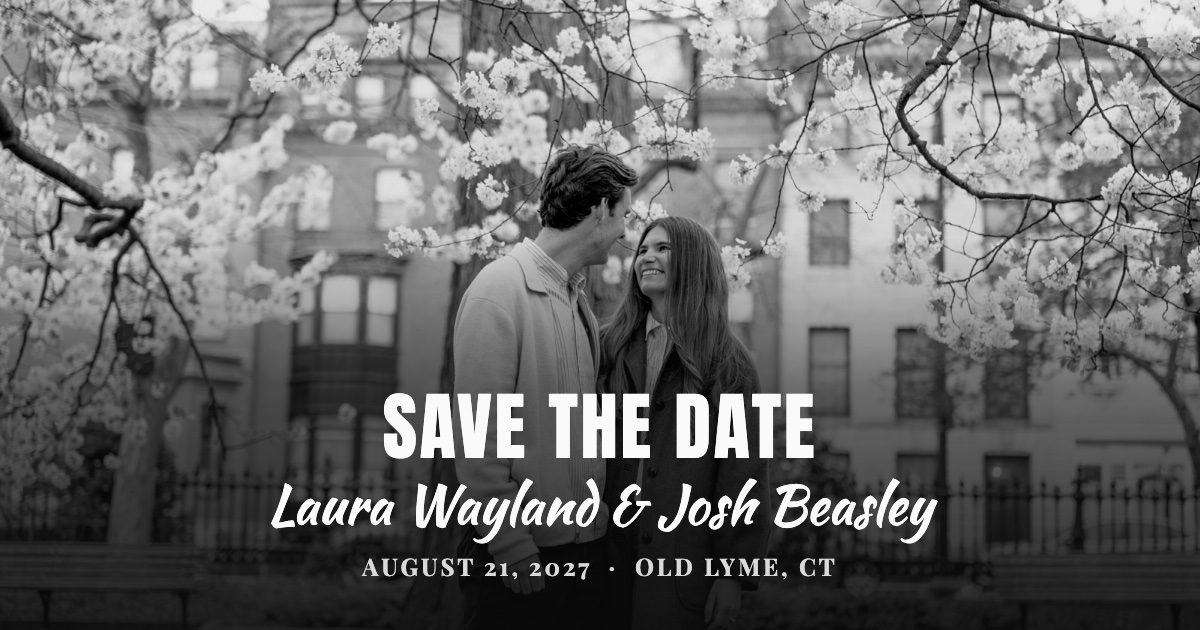
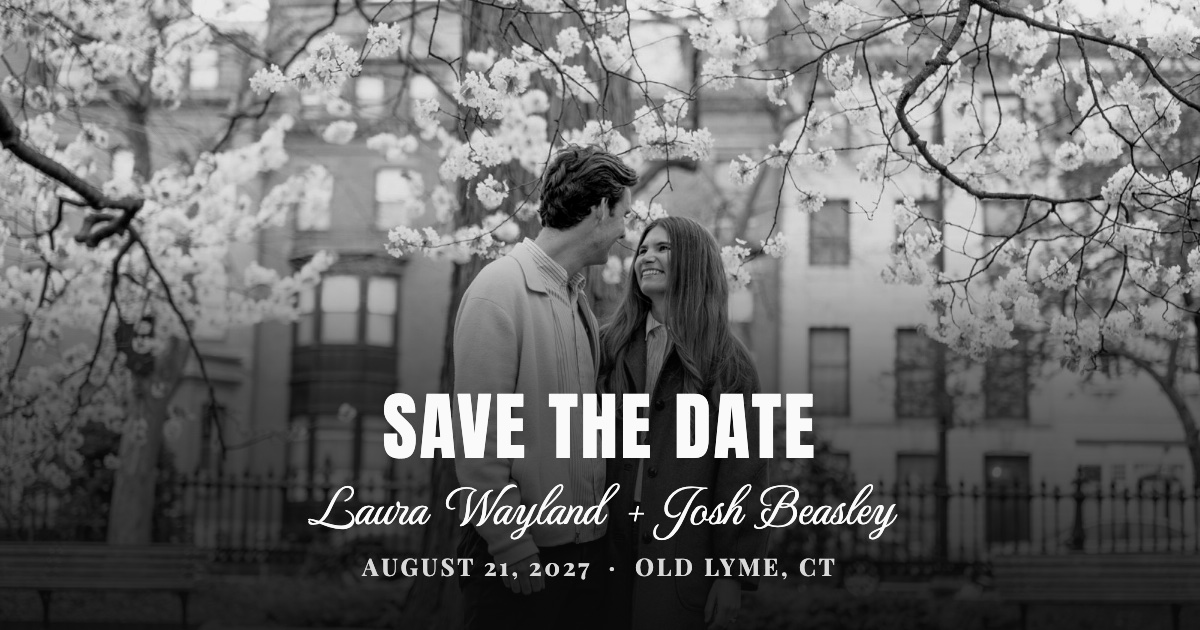
laura edits

Changed region(s): [[0.2158, 0.754, 0.8017, 0.8746]]

diff --git a/styles.css b/styles.css
@@ -19,11 +19,11 @@
 }
 
 @font-face {
-  font-family: 'Kaushan Script';
+  font-family: 'MonteCarlo';
   font-style: normal;
   font-weight: 400;
   font-display: swap;
-  src: url('assets/fonts/kaushan-script-latin.woff2') format('woff2');
+  src: url('assets/fonts/montecarlo-latin.woff2') format('woff2');
 }
 
 @font-face {
@@ -198,17 +198,29 @@ body {
 .strip-paper {
   position: absolute;
   inset: 0;
+  /* The shadow lives here and the paper + cut shape on ::before, so the
+     shadow traces the ribbon's outline (a clip-path on the same element
+     would clip its own shadow away). That outline is what keeps the
+     upper tail visible where it overlaps the same-colored photo frame. */
+  filter: drop-shadow(0 2px 4px rgba(17, 17, 15, 0.12));
+}
+
+.strip-paper::before {
+  content: '';
+  position: absolute;
+  inset: 0;
   background: var(--paper-light);
   background-image: url('assets/paper-grain.svg');
   background-size: 140px 140px;
   background-blend-mode: multiply;
-  filter: drop-shadow(0 2px 4px rgba(17, 17, 15, 0.12));
+  /* Swallowtail ribbon end: two points with a V notch cut between
+     them. The extra vertices at each tip bevel it slightly so the
+     points read as cut ribbon rather than razor-sharp. */
   clip-path: polygon(
     100% 0%,
-    7% 0%, 3% 4%, 9% 7%, 4% 11%, 10% 15%,
-    5% 20%, 11% 25%, 6% 31%, 12% 37%, 7% 43%,
-    13% 49%, 8% 56%, 12% 62%, 7% 68%, 13% 74%,
-    8% 80%, 11% 85%, 5% 90%, 10% 95%, 4% 100%,
+    1.5% 0%, 0% 3%,
+    15% 50%,
+    0% 97%, 1.5% 100%,
     100% 100%
   );
 }
@@ -221,11 +233,12 @@ body {
   flex-direction: column;
   align-items: flex-start;
   justify-content: center;
-  padding-left: 13%;
+  padding-left: 15%;
   padding-right: 9%;
-  font-family: 'Kaushan Script', 'Brush Script MT', cursive;
+  font-family: 'MonteCarlo', 'Brush Script MT', cursive;
   font-weight: 400;
-  font-size: 5.6cqw;
+  font-size: 6.3cqw;
+  word-spacing: 0.15em; /* MonteCarlo's own spaces nearly vanish */
   line-height: 1.35;
   white-space: nowrap;
   color: var(--ink);
@@ -255,6 +268,12 @@ body {
   display: flex;
   flex-direction: column;
   line-height: 0.95;
+}
+
+/* "5" over "PM": right-aligned so both lines sit flush against the
+   separator. */
+.td-col:first-child {
+  align-items: flex-end;
 }
 
 /* Both rows of each column share one size/weight/color — the video
@@ -368,7 +387,10 @@ html.anim-armed [data-anim="strip"] {
 }
 html.anim-armed [data-anim="names"] {
   transform: translateY(-26px) scale(0.97);
-  transform-origin: left center;
+  /* Right-anchored so the breathing zoom grows the names leftward into
+     the ribbon's notch space; anchored left, the end of "Wayland" was
+     pushed past the poster's clipped right edge at peak scale. */
+  transform-origin: right center;
 }
 html.anim-armed [data-anim="timedate"] {
   transform: translateY(-26px) scale(0.97);
@@ -619,11 +641,12 @@ html.anim-armed .location-line {
 .af-title {
   margin: 0 0 0.2rem;
   text-align: center;
-  font-family: 'Kaushan Script', 'Brush Script MT', cursive;
+  font-family: 'MonteCarlo', 'Brush Script MT', cursive;
   font-weight: 400;
   /* One line at every width: scales down with the form (cqi) rather
-     than wrapping, capped at 2.1rem on wider screens. */
-  font-size: min(2.1rem, 10cqi);
+     than wrapping, capped at 2.5rem on wider screens. */
+  font-size: min(2.5rem, 12cqi);
+  word-spacing: 0.15em;
   line-height: 1.2;
   white-space: nowrap;
   color: var(--ink);
@@ -732,9 +755,10 @@ html.anim-armed .location-line {
 
 .af-thanks-script {
   margin: 0;
-  font-family: 'Kaushan Script', 'Brush Script MT', cursive;
+  font-family: 'MonteCarlo', 'Brush Script MT', cursive;
   font-weight: 400;
-  font-size: clamp(2rem, 9vw, 2.6rem);
+  font-size: clamp(2.3rem, 10vw, 2.9rem);
+  word-spacing: 0.15em;
   line-height: 1.2;
   color: var(--ink);
 }

diff --git a/tools/og-image-template.html b/tools/og-image-template.html
@@ -33,8 +33,8 @@
   src: url('../assets/fonts/anton-latin.woff2') format('woff2');
 }
 @font-face {
-  font-family: 'Kaushan Script';
-  src: url('../assets/fonts/kaushan-script-latin.woff2') format('woff2');
+  font-family: 'MonteCarlo';
+  src: url('../assets/fonts/montecarlo-latin.woff2') format('woff2');
 }
 @font-face {
   font-family: 'Roboto Slab';
@@ -93,7 +93,8 @@ html, body {
 
 .names {
   margin-top: 14px;
-  font-family: 'Kaushan Script', cursive;
+  font-family: 'MonteCarlo', cursive;
+  word-spacing: 0.15em;
   font-weight: 400;
   font-size: 54px;
   line-height: 1;
@@ -115,7 +116,7 @@ html, body {
     <div class="overlay"></div>
     <div class="content">
       <div class="headline">Save the Date</div>
-      <div class="names">Laura Wayland &amp; Josh Beasley</div>
+      <div class="names">Laura Wayland + Josh Beasley</div>
       <div class="details">August 21, 2027 &nbsp;·&nbsp; Old Lyme, CT</div>
     </div>
   </div>

diff --git a/index.html b/index.html
@@ -77,7 +77,7 @@
       <div class="strip-paper" data-anim="strip" aria-hidden="true"></div>
       <p class="strip-text" data-anim="names">
         <span class="name-line">Laura Wayland</span>
-        <span class="name-line">&amp; Josh Beasley</span>
+        <span class="name-line">+ Josh Beasley</span>
       </p>
     </div>
 
@@ -85,7 +85,7 @@
     <div class="layer timedate">
       <div class="td-group" data-anim="timedate" aria-hidden="true">
         <div class="td-col">
-          <span class="td-line">5</span>
+          <span class="td-line">5:00</span>
           <span class="td-line">PM</span>
         </div>
         <div class="td-sep"></div>

diff --git a/README.md b/README.md
@@ -91,7 +91,7 @@ This repo's existing Pages setup is unchanged:
 └── assets/
     ├── fonts/
     │   ├── anton-latin.woff2            headline + date/time typeface
-    │   ├── kaushan-script-latin.woff2    script typeface (names, form heading)
+    │   ├── montecarlo-latin.woff2        script typeface (names, form heading)
     │   ├── playfair-display-latin-700.woff2  location line + join-section typeface
     │   └── roboto-slab-latin.woff2      date/time + countdown numerals
     ├── couple-photo.jpg              real photo shown in the poster — see above to replace
@@ -112,7 +112,7 @@ tools/
 
 ## Notes on fonts
 
-Anton, Kaushan Script, Playfair Display, and Roboto Slab are all licensed under the SIL Open Font License and are vendored locally as `.woff2` files under `assets/fonts/` (downloaded from Google Fonts) — no external font requests at runtime. If a browser can't load one for any reason, `styles.css` falls back to a generic equivalent (`'Arial Narrow', sans-serif` for the condensed faces, `'Brush Script MT', cursive` for the names, `Georgia, serif` for the serif text).
+Anton, MonteCarlo, Playfair Display, and Roboto Slab are all licensed under the SIL Open Font License and are vendored locally as `.woff2` files under `assets/fonts/` (downloaded from Google Fonts) — no external font requests at runtime. If a browser can't load one for any reason, `styles.css` falls back to a generic equivalent (`'Arial Narrow', sans-serif` for the condensed faces, `'Brush Script MT', cursive` for the names, `Georgia, serif` for the serif text).
 
 ## Notes on the paper texture
 
